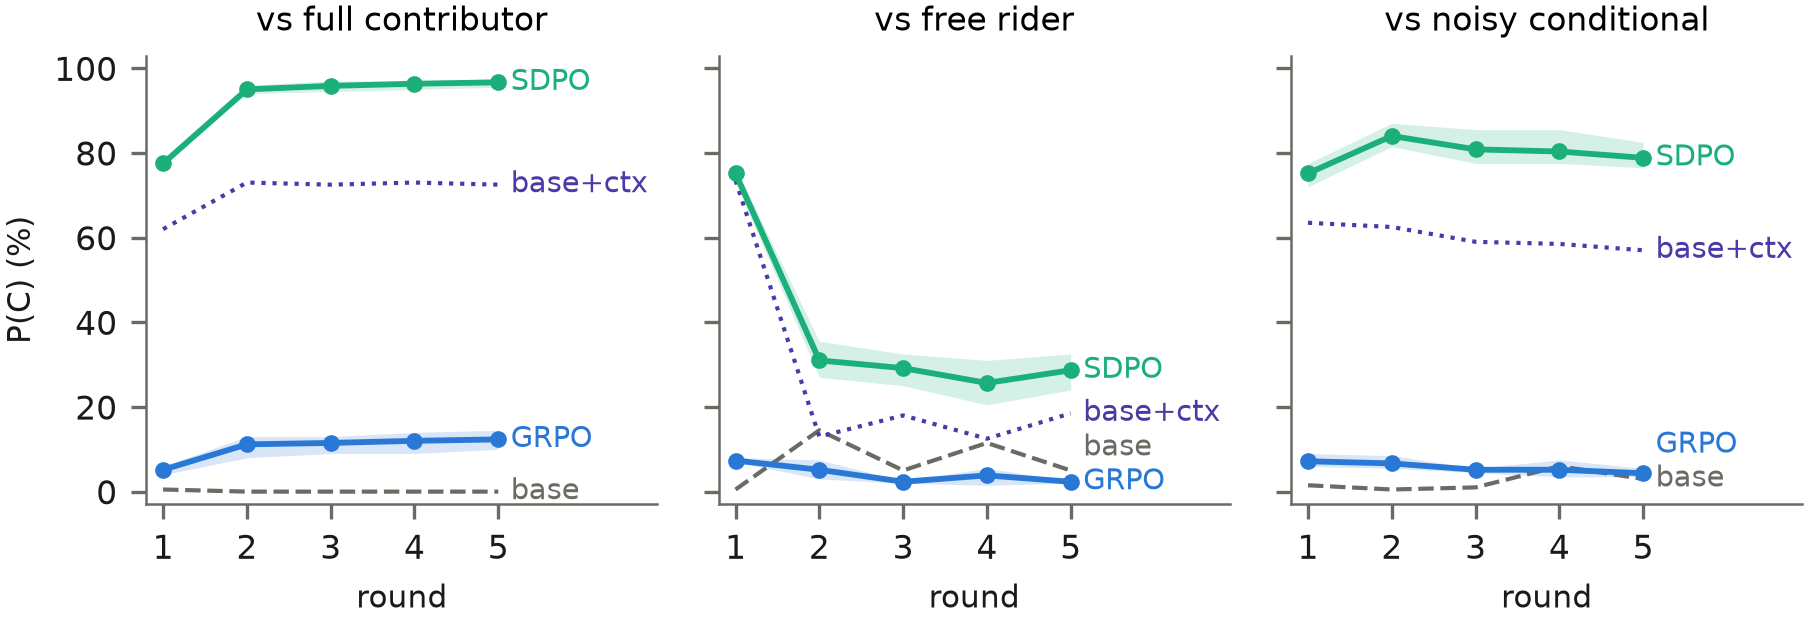
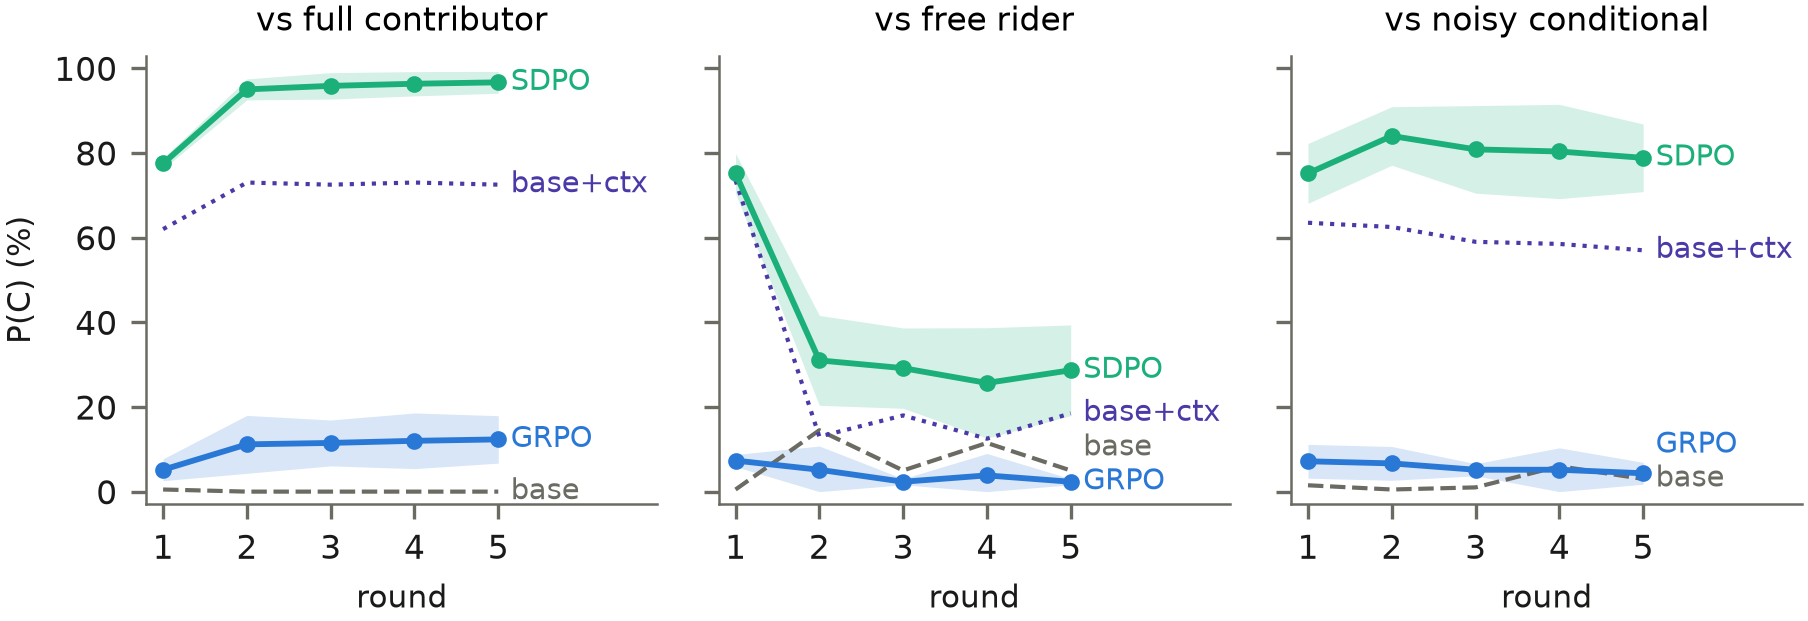
Seed figures: 95% Student-t bands over seeds; make_report builds the ACL single-round figure
Figure bands use the same interval as the seed tables (seed_band) instead of
the min-max range, for the transfer figures and the training-seeds figure.
Regenerated the three-seed Qwen3-8B single-round and live-play figures.

diff --git a/scripts/analysis/seed_figures.py b/scripts/analysis/seed_figures.py
@@ -3,7 +3,8 @@
 The per-run figures in transfer_figures.py key on one run name, so three
 seeds of one config appear as three runs. Here cells are pooled by
 CHANNEL (algo + arm, the run name without model, steps and seed) and
-drawn as mean with a min-max band over seeds. Base and in-context rows
+drawn as mean with a 95% Student-t band over seeds (seed_band), the
+interval of the seed tables (seed_numbers.py). Base and in-context rows
 come from the same groups (checkpoint: base cells of the given model).
 
   seed-grid  left: pooled P(C) at one step, bars = base / base+ctx /
@@ -27,6 +28,7 @@ from typing import Dict, List, Optional
 
 sys.path.insert(0, str(Path(__file__).resolve().parent))
 import matplotlib.pyplot as plt  # noqa: E402
+from scipy.stats import t as student_t  # noqa: E402
 from eval_cells import discover_run_dirs, load_json  # noqa: E402
 from figure_style import (  # noqa: E402
     ACCENT, CHANNEL_COLORS, INK_MUTED, REF_BASE, REF_CONTEXT, RUN_COLORS, WIDTHS,
@@ -136,13 +138,26 @@ def split(cells: List[Cell], steps: List[int], principle: str):
     return base, ctx, {k: list(v.values()) for k, v in runs.items()}
 
 
+def seed_band(vals: List[float], level: float = 95, lo: float = 0,
+              hi: float = 100):
+    """Mean and Student-t interval over seed values, clipped to [lo, hi]:
+    mean +- t_{S-1} * sd / sqrt(S), the trained-row interval of the seed
+    tables. One value gives no interval (lower = upper = mean)."""
+    n = len(vals)
+    m = sum(vals) / n
+    if n < 2:
+        return m, m, m
+    sd = (sum((v - m) ** 2 for v in vals) / (n - 1)) ** 0.5
+    half = student_t.ppf(0.5 + level / 200, n - 1) * sd / n ** 0.5
+    return m, max(lo, m - half), min(hi, m + half)
+
+
 def band(ax, xs, series: List[List[float]], color, **line):
-    """Mean line with a min-max band over the replicate series."""
-    n = len(series)
-    mean = [sum(s[i] for s in series) / n for i in range(len(xs))]
-    if n > 1:
-        ax.fill_between(xs, [min(s[i] for s in series) for i in range(len(xs))],
-                        [max(s[i] for s in series) for i in range(len(xs))],
+    """Mean line with a 95% Student-t band over the replicate series."""
+    stats = [seed_band([s[i] for s in series]) for i in range(len(xs))]
+    mean = [m for m, _, _ in stats]
+    if len(series) > 1:
+        ax.fill_between(xs, [l for _, l, _ in stats], [h for _, _, h in stats],
                         color=color, alpha=0.18, lw=0)
     ax.plot(xs, mean, color=color, **line)
     return mean
@@ -181,7 +196,7 @@ def _end(ys: List[float]) -> float:
 def fig_seed_grid(cells: List[Cell], steps: List[int], principle: str,
                   out_dir: Path, name: str, title: Optional[str] = None) -> List[Path]:
     """The transfer_final form, pooled over seeds: one panel per model,
-    P(C) vs k_O, own previous move C solid / D dashed, band = min-max."""
+    P(C) vs k_O, own previous move C solid / D dashed, band = 95% t over seeds."""
     base, ctx, runs = split(cells, steps, principle)
     base = next(iter(base.values()), None)
     fig, ax = plt.subplots(figsize=(WIDTHS["column"], 2.3))

diff --git a/scripts/analysis/make_figures.py b/scripts/analysis/make_figures.py
@@ -248,8 +248,10 @@ def parse_labeled(entries: List[str]) -> List[tuple]:
 def fig_training_seeds(args, out_dir: Path) -> None:
     """Per-state training curves pooled over seeds: one panel per label
     (--run label=run-dir, repeat a label once per seed). Line = mean over
-    seeds of each run's window mean, band = min-max over seeds, the same
-    convention as the seed transfer figures."""
+    seeds of each run's window mean, band = 95% Student-t interval over
+    seeds (seed_figures.seed_band), the same convention as the seed transfer
+    figures and tables."""
+    from seed_figures import seed_band
     by_label: Dict[str, list] = defaultdict(list)
     for label, run_dir in parse_labeled(args.run):
         by_label[label].append(load_group_props(run_dir, args.window))
@@ -273,8 +275,8 @@ def fig_training_seeds(args, out_dir: Path) -> None:
                         for r in runs if r[w]["props"][st]]
                 if len(vals) < len(runs):
                     continue
-                xs.append(mid[w]); mean.append(sum(vals) / len(vals))
-                lo.append(min(vals)); hi.append(max(vals))
+                m, l, h = seed_band(vals)
+                xs.append(mid[w]); mean.append(m); lo.append(l); hi.append(h)
             ax.plot(xs, mean, color=STATE_COLORS[st], linewidth=1.2)
             ax.fill_between(xs, lo, hi, color=STATE_COLORS[st], alpha=0.18,
                             linewidth=0)

diff --git a/tests/test_seed_numbers.py b/tests/test_seed_numbers.py
@@ -108,3 +108,12 @@ def test_trained_row_interval_is_student_t_over_seed_rates():
     half = 4.302653 * 0.1 / 3 ** 0.5  # t_{2, 0.975}
     assert (st["Mean"], st["Lo"], st["Hi"]) == (50, sn.pct(0.5 - half), sn.pct(0.5 + half))
     assert sn.cell(seeds) == f"50{{\\scriptsize\\,[{st['Lo']},{st['Hi']}]}}"
+
+
+def test_figure_band_matches_table_interval():
+    from seed_figures import seed_band
+    m, lo, hi = seed_band([40.0, 50.0, 60.0])
+    half = 4.302653 * 10 / 3 ** 0.5
+    assert m == 50 and lo == pytest.approx(50 - half, abs=1e-4) and hi == pytest.approx(50 + half, abs=1e-4)
+    assert seed_band([98.0, 99.0, 100.0])[2] == 100   # clipped
+    assert seed_band([30.0]) == (30.0, 30.0, 30.0)     # one seed: no band
